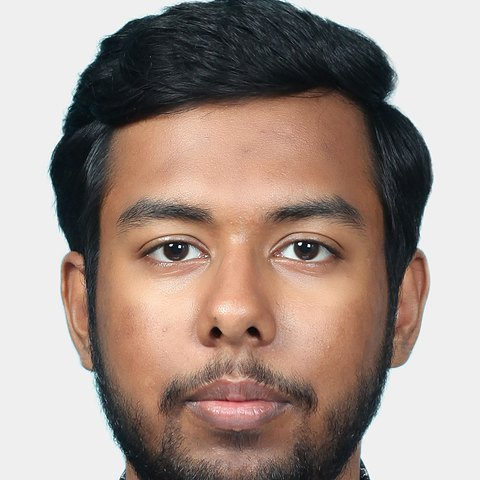
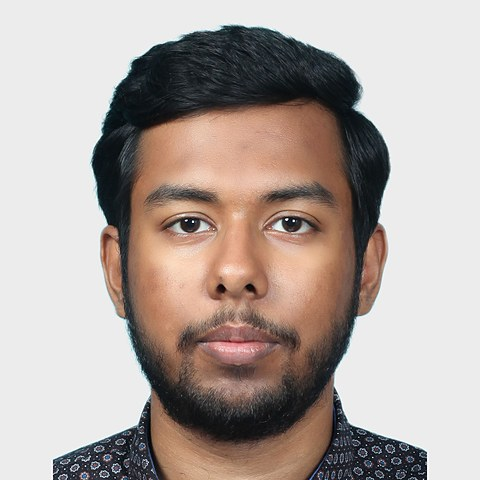
Update from latest CV, link paper titles, reframe profile photo
Add en route M.S., expected Ph.D. date, BCI hardware work, ICCPS 2027
submission and new skills; make each paper title the link instead of
separate buttons; centre the profile photo for the circular frame.

Claude-Session: https://claude.ai/code/session_017copTDpeD7chdiEEWXnVeR

diff --git a/index.html b/index.html
@@ -48,11 +48,14 @@
         My work sits at the intersection of cyber-physical systems, embedded machine learning and formal methods:
         from reinforcement learning that runs on a microcontroller inside a deep brain stimulation implant,
         to edge&ndash;cloud controllers for autonomous vehicles, to formally verified spiking neural network controllers.
+        I am currently also designing efficient hardware for brain&ndash;computer interfaces using formal verification.
       </p>
       <p>
         I am a Ph.D. student in Computer Science at the University of North Carolina at Chapel Hill,
         advised by Dr. Sridhar Duggirala and
-        Prof. Samarjit Chakraborty.
+        Prof. Samarjit Chakraborty, and received my M.S. en route in May 2026.
+        My background in formal methods spans mathematical logic, formal verification, SAT/SMT solving,
+        mechanical theorem proving, model checking and program analysis.
         Before UNC, I completed my B.Tech. (Honours) in Computer Science at KIIT University, India,
         and was a research intern at Ericsson and a summer research fellow at the Indian Statistical Institute, Kolkata.
       </p>
@@ -69,6 +72,13 @@
       <h2>Publications</h2>
       <ol class="pub-list">
         <li class="pub">
+          <span class="venue">ICCPS 2027</span>
+          <div>
+            <span class="pub-title">Mode-Aware RL Algorithms for Deep Brain Stimulation</span>
+            <span class="pub-where">18th ACM/IEEE International Conference on Cyber-Physical Systems (ICCPS 2027) &middot; Under review</span>
+          </div>
+        </li>
+        <li class="pub">
           <span class="venue">ICCD 2026</span>
           <div>
             <span class="pub-title">TinyRL: RL for &mu;C-based Deep Brain Stimulation</span>
@@ -79,28 +89,25 @@
         <li class="pub">
           <span class="venue">TCPS 2026</span>
           <div>
-            <span class="pub-title">Controller-aware Perception Neural Network Pruning for CPS Safety Optimization</span>
+            <a class="pub-title" href="https://autmn.ua.edu/files/tcps26.pdf">Controller-aware Perception Neural Network Pruning for CPS Safety Optimization</a>
             <span class="pub-authors">J. Chen, Y. Song, S. Xu, K. Kessler, P. Ganguli, <span class="me">A. Gupta</span>, B. Ghosh, P. S. Duggirala, T. Chen, S. Chakraborty, J. Hu</span>
             <span class="pub-where">ACM Transactions on Cyber-Physical Systems (TCPS), 2026</span>
-            <span class="pub-links"><a href="https://autmn.ua.edu/files/tcps26.pdf">PDF</a></span>
           </div>
         </li>
         <li class="pub">
           <span class="venue">ICCPS 2026</span>
           <div>
-            <span class="pub-title">Bandit Algorithms for Deep Brain Stimulation</span>
+            <a class="pub-title" href="https://arxiv.org/abs/2601.12699">Bandit Algorithms for Deep Brain Stimulation</a>
             <span class="pub-authors"><span class="me">A. Gupta</span>, N. Carter, W. Zellers, P. Ganguli, B. Dietrich, V. Krishna, P. S. Duggirala, S. Chakraborty</span>
             <span class="pub-where">17th ACM/IEEE International Conference on Cyber-Physical Systems (ICCPS 2026), Saint-Malo, France</span>
-            <span class="pub-links"><a href="https://arxiv.org/abs/2601.12699">arXiv</a></span>
           </div>
         </li>
         <li class="pub">
           <span class="venue">SETSS 2025</span>
           <div>
-            <span class="pub-title">Building Safe Autonomous Systems Using Imperfect Components</span>
+            <a class="pub-title" href="https://doi.org/10.1007/978-981-95-8617-2_7">Building Safe Autonomous Systems Using Imperfect Components</a>
             <span class="pub-authors">S. Xu, P. Ganguli, T. Zhu, <span class="me">A. Gupta</span>, B. Ghosh, K. Wilson, A. Al Arafat, J. Baugh, Z. Guo, B. Berg, P. S. Duggirala, S. Chakraborty</span>
             <span class="pub-where">Engineering Trustworthy Software Systems (SETSS 2025), LNCS vol. 16481, Springer, pp. 213–286, 2026</span>
-            <span class="pub-links"><a href="https://doi.org/10.1007/978-981-95-8617-2_7">DOI</a> <a href="https://autmn.ua.edu/files/setss25.pdf">PDF</a></span>
           </div>
         </li>
         <li class="pub">
@@ -114,37 +121,33 @@
         <li class="pub">
           <span class="venue">BSN 2025</span>
           <div>
-            <span class="pub-title">In-Vivo Training for Deep Brain Stimulation</span>
+            <a class="pub-title" href="https://arxiv.org/abs/2510.03643">In-Vivo Training for Deep Brain Stimulation</a>
             <span class="pub-authors">N. Carter, <span class="me">A. Gupta</span>, P. Ganguli, B. Dietrich, V. Krishna, S. Chakraborty</span>
             <span class="pub-where">IEEE 21st International Conference on Body Sensor Networks (BSN 2025)</span>
-            <span class="pub-links"><a href="https://arxiv.org/abs/2510.03643">arXiv</a></span>
           </div>
         </li>
         <li class="pub">
           <span class="venue">COMSNETS 2025</span>
           <div>
-            <span class="pub-title">Controllers for Edge-Cloud Cyber-Physical Systems</span>
+            <a class="pub-title" href="https://doi.org/10.1109/COMSNETS63942.2025.10885702">Controllers for Edge-Cloud Cyber-Physical Systems</a>
             <span class="pub-authors">T. Zhu, P. Ganguli, <span class="me">A. Gupta</span>, S. Xu, L. Capogrosso, E. Fraccaroli, M. Cristani, F. Fummi, S. Chakraborty</span>
             <span class="pub-where">17th International Conference on Communication Systems and Networks (COMSNETS 2025), Bengaluru, India</span>
-            <span class="pub-links"><a href="https://doi.org/10.1109/COMSNETS63942.2025.10885702">DOI</a> <a href="https://par.nsf.gov/servlets/purl/10563547">PDF</a></span>
           </div>
         </li>
         <li class="pub">
           <span class="venue">MEMOCODE 2024</span>
           <div>
-            <span class="pub-title">Configuring Safe Spiking Neural Controllers for Cyber-Physical Systems through Formal Verification</span>
+            <a class="pub-title" href="https://doi.org/10.1109/MEMOCODE63347.2024.00017">Configuring Safe Spiking Neural Controllers for Cyber-Physical Systems through Formal Verification</a>
             <span class="pub-authors"><span class="me">A. Gupta</span>, S. Ghosh, A. Banerjee, S. K. Mohalik</span>
             <span class="pub-where">22nd ACM/IEEE International Symposium on Formal Methods and Models for System Design (MEMOCODE 2024), part of ESWEEK, Raleigh, NC, USA</span>
-            <span class="pub-links"><a href="https://doi.org/10.1109/MEMOCODE63347.2024.00017">DOI</a> <a href="https://arxiv.org/abs/2408.01996">arXiv</a></span>
           </div>
         </li>
         <li class="pub">
           <span class="venue">VDAT 2023</span>
           <div>
-            <span class="pub-title">A Test Generation Approach for Spiking Neural Network Simplification</span>
+            <a class="pub-title" href="https://doi.org/10.1007/978-981-97-3756-7_26">A Test Generation Approach for Spiking Neural Network Simplification</a>
             <span class="pub-authors">S. Banerjee, <span class="me">A. Gupta</span>, S. Ghosh, A. Banerjee, S. K. Mohalik</span>
             <span class="pub-where">27th International Symposium on VLSI Design and Test (VDAT 2023), BITS Pilani, India</span>
-            <span class="pub-links"><a href="https://doi.org/10.1007/978-981-97-3756-7_26">DOI</a></span>
           </div>
         </li>
         <li class="pub">
@@ -171,9 +174,10 @@
         <ul>
           <li>Reconstructed autonomous driving scenarios from nuScenes videos in simulation to build test suites for systematically evaluating perception and control pipelines.</li>
           <li>Developed resource-constrained reinforcement learning algorithms for closed-loop Deep Brain Stimulation under real-time and energy constraints, and deployed them on hardware for use within an implant.</li>
+          <li>Designing efficient hardware for brain&ndash;computer interfaces (BCIs) using formal verification.</li>
           <li>Designed a hybrid edge-cloud control strategy combining low-latency edge inference with high-accuracy cloud inference, outperforming edge-only and cloud-only controllers for autonomous vehicles.</li>
         </ul>
-        <div class="tags"><span>Python</span><span>Julia</span><span>MATLAB</span><span>CARLA</span><span>Scenic</span><span>PyTorch</span><span>Reinforcement Learning</span><span>Multi-Armed Bandits</span><span>Controller Design</span><span>Embedded C/C++</span></div>
+        <div class="tags"><span>Python</span><span>Julia</span><span>MATLAB</span><span>CARLA</span><span>Scenic</span><span>PyTorch</span><span>Reinforcement Learning</span><span>Multi-Armed Bandits</span><span>Controller Design</span><span>Embedded C/C++</span><span>BCI Hardware Design</span></div>
       </div>
 
       <div class="entry">
@@ -210,9 +214,17 @@
       <div class="entry">
         <div class="entry-head">
           <span class="entry-title">Ph.D. in Computer Science</span>
-          <span class="entry-date">Aug 2024 – Present</span>
+          <span class="entry-date">Aug 2024 – May 2028 (expected)</span>
         </div>
-        <div class="entry-sub">University of North Carolina at Chapel Hill · GPA 4.0/4.0</div>
+        <div class="entry-sub">University of North Carolina at Chapel Hill · All coursework graded High Pass</div>
+        <p>Relevant coursework: Formal Verification</p>
+      </div>
+      <div class="entry">
+        <div class="entry-head">
+          <span class="entry-title">M.S. in Computer Science (en route to Ph.D.)</span>
+          <span class="entry-date">May 2026</span>
+        </div>
+        <div class="entry-sub">University of North Carolina at Chapel Hill · All coursework graded High Pass</div>
       </div>
       <div class="entry">
         <div class="entry-head">
@@ -247,9 +259,10 @@
     <section id="skills">
       <h2>Technical Skills</h2>
       <dl class="skills">
-        <dt>Languages</dt><dd>Python, MATLAB, R, Julia, Java, C++, C</dd>
+        <dt>Languages</dt><dd>Python, MATLAB, R, Julia, Java, C++, C, Rust, Scala</dd>
         <dt>ML &amp; Data Analysis</dt><dd>PyTorch, TensorFlow, Keras, snnTorch, Nengo, NumPy, Pandas, Matplotlib</dd>
-        <dt>Formal Methods &amp; Optimization</dt><dd>Z3, Gurobi, CPLEX</dd>
+        <dt>Formal Methods &amp; Optimization</dt><dd>Dafny, Z3, Gurobi, CPLEX</dd>
+        <dt>Formal Methods Expertise</dt><dd>Mathematical logic, formal verification, SAT/SMT solving, mechanical theorem proving, model checking, program analysis</dd>
         <dt>Simulation</dt><dd>CARLA, Scenic, PyBullet, MuJoCo</dd>
         <dt>Systems &amp; Tools</dt><dd>AWS, Docker, Git/GitHub, Android Studio</dd>
       </dl>

diff --git a/style.css b/style.css
@@ -237,12 +237,6 @@ footer {
   .skills dd { margin-bottom: 8px; }
 }
 
-.pub-links { display: flex; flex-wrap: wrap; gap: 6px; margin-top: 6px; }
-.pub-links a {
-  font-family: "Inter", system-ui, sans-serif;
-  font-size: 0.75rem;
-  border: 1px solid var(--rule);
-  border-radius: 4px;
-  padding: 1px 8px;
-}
-.pub-links a:hover { border-color: var(--link); text-decoration: none; }
+a.pub-title { color: var(--text); }
+a.pub-title:hover { color: var(--link); text-decoration: underline; text-underline-offset: 3px; }
+a.pub-title::after { content: "\00a0\2197"; font-size: 0.8em; color: var(--link); }
